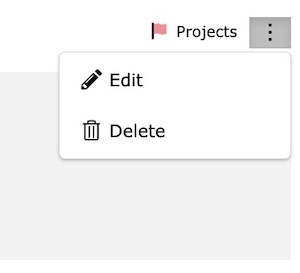
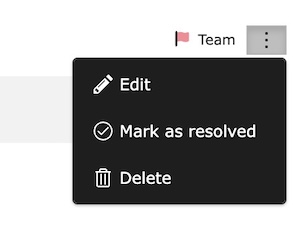
docs: enhance comments section to include resolve feature in documentation

diff --git a/Documentation/Usage/Comments.rst b/Documentation/Usage/Comments.rst
@@ -51,11 +51,12 @@ Edit comments
 
         `Feature: #70 - Add edit comment functionality and associated UI updates <https://github.com/xima-media/xima-typo3-content-planner/pull/70>`__
 
+Use the context menu to edit, :ref:`resolve <comments-resolve>` or delete a comment.
+
 ..  figure:: /Images/comment-edit.jpg
     :alt: Edit or delete comments of a record
 
-    Edit or delete comments of a record
-
+    Edit, resolved or delete comments of a record
 
 ..  _comments-todo:
 
@@ -86,3 +87,21 @@ Use the :ref:`ToDo widget <dashboard-widgets>` to keep track of your ToDo tasks.
     :alt: ToDo widget
 
     ToDo widget
+
+..  _comments-resolve:
+
+Resolution
+=================
+
+..  versionadded:: 1.4.0
+
+        `Feature: #72 - Add comment resolution functionality with sorting and filtering options <https://github.com/xima-media/xima-typo3-content-planner/pull/72>`__
+
+In addition to the ToDos in the comments, there is also the option of marking entire comments as completed, in order to keep the comment list clear and organized.
+
+A comment can be marked as completed via the context menu.
+
+..  figure:: /Images/comment-resolve.jpg
+    :alt: Resolved comments
+
+    Resolved comments can can be displayed again using the filter

diff --git a/Documentation/Introduction/Index.rst b/Documentation/Introduction/Index.rst
@@ -26,7 +26,7 @@ Features
 - Colorful representation of the status within the backend
 - Easy :ref:`change of status <status-change>`
 - User :ref:`assignment <assignee>` for distribution of content work
-- :ref:`Comments <comments>` with todo feature for additional information
+- :ref:`Comments <comments>` with :ref:`todo <comments-todo>` and :ref:`resolve <comments-resolve>` feature for additional information
 - Extensive :ref:`dashboard <dashboard>` for detailed content planning
 - Recent updates :ref:`widget <dashboard-widgets>` for quick access to the latest changes
 - Filterable content planner record overview

diff --git a/README.md b/README.md
@@ -25,7 +25,7 @@ content work, e.g. a migration process.
 * Colorful representation of the status within the backend
 * Easy change of status
 * User assignment for distribution of content work
-* Comments with todo feature for additional information
+* Comments with todo and resolve feature for additional information
 * Extensive dashboard for detailed content planning
 * Recent updates widget for quick access to the latest changes
 * Filterable content planner record overview
